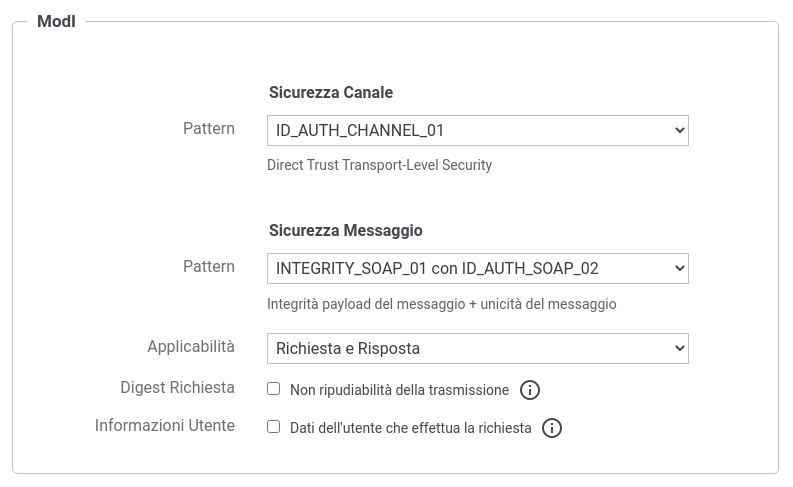
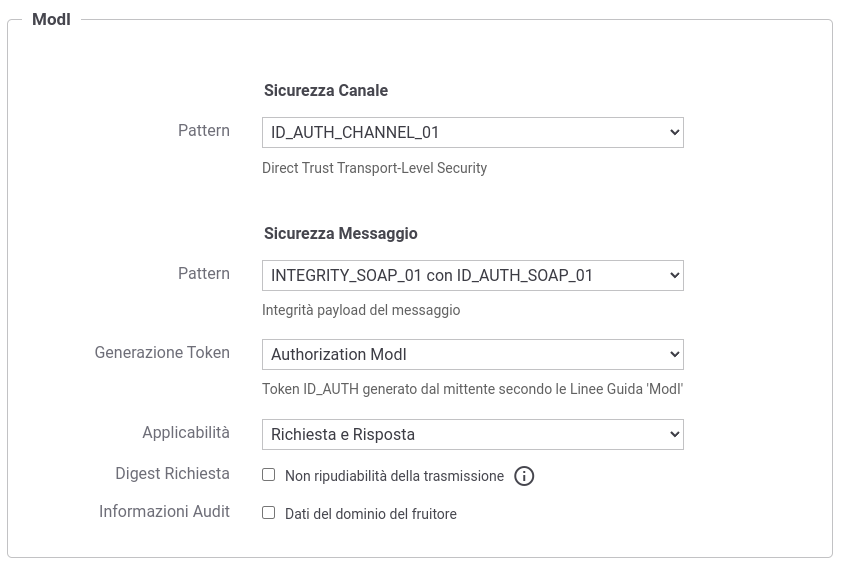
[Documentazione] Avviata documentazione ModI per i pattern 'AUDIT'

diff --git a/resources/doc/src/manuali/console/profiloModIPA/concettiPreliminari.rst b/resources/doc/src/manuali/console/profiloModIPA/concettiPreliminari.rst
@@ -27,19 +27,21 @@ Nel processo di configurazione, tramite la govwayConsole, sono inoltre tenuti in
 
 - *Sicurezza Canale*: gestione della sicurezza inerente il canale di comunicazione tra i domini fruitore ed erogatore. La specifica prevede i seguenti due pattern:
 
-    + *[ID_AUTH_CHANNEL_01] Direct Trust Transport-Level Security*: comunicazione basata sul canale TLS dopo aver effettuato il trust del certificato X509 fornito dal dominio erogatore.
-    + *[ID_AUTH_CHANNEL_02] Direct Trust mutual Transport-Level Security*: comunicazione basata sul canale TLS dopo aver effettuato il trust dei certificati X509, del fruitore e dell'erogatore, nella modalità di mutua autenticazione.
+    + *ID_AUTH_CHANNEL_01 - Direct Trust Transport-Level Security*: comunicazione basata sul canale TLS dopo aver effettuato il trust del certificato X509 fornito dal dominio erogatore.
+    + *ID_AUTH_CHANNEL_02 - Direct Trust mutual Transport-Level Security*: comunicazione basata sul canale TLS dopo aver effettuato il trust dei certificati X509, del fruitore e dell'erogatore, nella modalità di mutua autenticazione.
 
 - *Sicurezza Messaggio*: gestione della sicurezza inerente lo scambio di informazioni tra le applicazioni agli estremi del flusso di comunicazione. I pattern di sicurezza previsti si distinguono per il caso SOAP e per quello REST:
 
-    + *[ID_AUTH_SOAP_01 o ID_AUTH_REST_01] Direct Trust con certificato X.509 su SOAP o REST*: Tramite la validazione del certificato X509, inserito dall'applicazione mittente nel token di sicurezza della richiesta, l'applicativo destinatario verifica la corrispondenza delle identità e la validità del messaggio, prima di procedere con la produzione della risposta. Con l'aggiornamento delle linee guida nella 'Determinazione n. 128 del 23 maggio 2023' il pattern ID_AUTH_REST_01 (utilizzabile anche per API SOAP) indica dove possibile di utilizzare la Piattaforma Digitale Nazionale Dati (PDND) per l’interoperabilità dove la costituzione del trust avviene tramite il materiale crittografico depositato applicando i profili di emissione dei voucher previsti.
-    + *[ID_AUTH_SOAP_02 o ID_AUTH_REST_02]  Direct  Trust  con  certificato  X.509  su  SOAP o REST  con  unicità  del messaggio/token*: estensione del pattern precedente con l'aggiunta di un meccanismo di filtro che impedisce il processamento di un messaggio duplicato.
-    + *[INTEGRITY_SOAP_01 o INTEGRITY_REST_01] Integrità del payload del messaggio SOAP o REST*: pattern che estende i precedenti aggiungendo la gestione della firma del payload come verifica di integrità del messaggio ricevuto.
-    + *[INTEGRITY_REST_02] Integrità del payload delle request REST in PDND*: simile al precedente pattern INTEGRITY_REST_01, assume che il trust avvenga tramite il materiale crittografico depositato sulla Piattaforma Digitale Nazionale Dati (PDND) applicando i profili di emissione dei voucher previsti. All'interno del token viene indicato l'identificativo della chiave pubblica (kid) associata alla chiave privata utilizzata dal client per firmare il token; identificativo kid generato dalla PDND e recuperabile dall'erogatore tramite le API messe a disposizione dalla PDND stessa.
+    + *ID_AUTH_SOAP_01 o ID_AUTH_REST_01 - Direct Trust con certificato X.509 su SOAP o REST*: Tramite la validazione del certificato X509, inserito dall'applicazione mittente nel token di sicurezza della richiesta, l'applicativo destinatario verifica la corrispondenza delle identità e la validità del messaggio, prima di procedere con la produzione della risposta attraverso un trust tra fruitore e erogatore basato su certificati x509.
+    + *ID_AUTH_REST_01 tramite la Piattaforma Digitale Nazionale Dati (PDND)*: con l'aggiornamento delle linee guida nella 'Determinazione n. 128 del 23 maggio 2023', viene indicato di utilizzare la PDND per ottenere un token conforme al pattern ID_AUTH_REST_01; la costituzione del trust avviene attraverso il materiale crittografico depositato sulla PDND applicando i profili di emissione dei voucher previsti.
+    + *ID_AUTH_SOAP_02 o ID_AUTH_REST_02 - Direct Trust con certificato X.509 su SOAP o REST con unicità del messaggio/token*: estensione dei pattern precedenti con l'aggiunta di un meccanismo di filtro che impedisce il processamento di un messaggio duplicato.
+    + *INTEGRITY_SOAP_01 o INTEGRITY_REST_01 - Integrità del payload del messaggio SOAP o REST*: pattern che estende i precedenti aggiungendo la gestione della firma del payload come verifica di integrità del messaggio ricevuto.
+    + *INTEGRITY_REST_02 - Integrità del payload delle request REST in PDND*: simile al precedente pattern INTEGRITY_REST_01, assume che il trust avvenga tramite il materiale crittografico depositato sulla PDND applicando i profili di emissione dei voucher previsti. All'interno del token viene indicato l'identificativo della chiave pubblica (kid) associata alla chiave privata utilizzata dal client per firmare il token di integrità; identificativo kid generato dalla PDND e recuperabile dall'erogatore tramite le API messe a disposizione dalla PDND stessa.
+    + *PROFILE_NON_REPUDIATION_01 - Profilo per la non ripudiabilità della trasmissione*: estende i pattern di integrità allo scopo di fornire una conferma al fruitore da parte dell’erogatore della ricezione del contenuto della richiesta. Descrive inoltre la necessità di definire un arco temporale di persistenza dei messaggi utile per soddisfare l opponibilità ai terzi.
 
 - *Sicurezza Audit*: consente all'erogatore di identificare la specifica provenienza di ogni singola richiesta di accesso ai dati effettuta dal fruitore. Le Linee Guida definiscono 2 pattern utilizzabili sia per API REST che per API SOAP:
 
-    + *[AUDIT_REST_01]  Inoltro dati tracciati nel dominio del Fruitore REST*: definisce la struttura del token di audit utilizzabile in alternativa o tramite un criterio di trust realizzato tramite il materiale crittografico depositato sulla PDND o tramite il trust diretto fruitore-erogatore tramite certificati X509. Le Linee Guida indicano che l'erogatore e il fruitore devono individuare i claim da includere nel JWT di audit e suggeriscono i seguenti dati che dovranno essere presenti nel token generato dal fruitore, per ogni richiesta effettuata:
+    + *AUDIT_REST_01- Inoltro dati tracciati nel dominio del Fruitore*: definisce la struttura del token di audit utilizzabile in alternativa o tramite un criterio di trust realizzato tramite il materiale crittografico depositato sulla PDND o tramite il trust diretto fruitore-erogatore attraverso l'utilizzo di certificati X509. Le Linee Guida indicano che l'erogatore e il fruitore devono individuare i claim da includere nel JWT di audit e suggeriscono i seguenti dati che dovranno essere presenti nel token generato dal fruitore, per ogni richiesta effettuata:
 
 	- userID, un identificativo univoco dell'utente interno al dominio del fruitore che ha determinato l'esigenza della request di accesso all'e-service dell'erogatore;
 
@@ -47,7 +49,7 @@ Nel processo di configurazione, tramite la govwayConsole, sono inoltre tenuti in
 
 	- LoA, livello di sicurezza o di garanzia adottato nel processo di autenticazione informatica nel dominio del fruitore.
 
-    + *[AUDIT_REST_02] Inoltro dati tracciati nel dominio del Fruitore REST con correlazione*: pattern che estende il precedente aggiungendo la correlazione tra il token di autenticazione e il token di audit. Il pattern richiede un trust realizzato tramite il materiale crittografico depositato sulla PDND.
+    + *AUDIT_REST_02 - Inoltro dati tracciati nel dominio del Fruitore con correlazione*: pattern che estende il precedente aggiungendo la correlazione tra il token di autenticazione e il token di audit. Il pattern richiede un trust realizzato tramite il materiale crittografico depositato sulla PDND.
 
 - *URL di Invocazione API*: le linee guida richiedono una indicazione esplicita della tecnologia utilizzata (REST o SOAP) e la versione. Le url con cui vengono esposte le API su GovWay soddisfano entrambi i requisiti.
 

diff --git a/resources/doc/src/manuali/console/profiloModIPA/sicurezzaMessaggio.rst b/resources/doc/src/manuali/console/profiloModIPA/sicurezzaMessaggio.rst
@@ -5,13 +5,19 @@ Sicurezza Messaggio
 
 Il pattern di sicurezza sul messaggio definisce le modalità di comunicazione dei messaggi tra componenti interne  ai domini delle entità coinvolte. Tali pattern sono distinti per il caso SOAP e per quello REST:
 
-- *[ID_AUTH_SOAP_01 o ID_AUTH_REST_01] Direct Trust con certificato X.509 su SOAP o REST*: Tramite la validazione del certificato X509, inserito dall'applicazione mittente nel token di sicurezza, l'applicativo destinatario verifica la corrispondenza delle identità e la validità del messaggio, prima di procedere con il processamento del messaggio. Con l'aggiornamento delle linee guida nella 'Determinazione n. 128 del 23 maggio 2023' il pattern ID_AUTH_REST_01 (utilizzabile anche per API SOAP) indica dove possibile di utilizzare la Piattaforma Digitale Nazionale Dati (PDND) per l’interoperabilità dove la costituzione del trust avviene tramite il materiale crittografico depositato applicando i profili di emissione dei voucher previsti.
+- *ID_AUTH_SOAP_01 o ID_AUTH_REST_01 - Direct Trust con certificato X.509 su SOAP o REST*: tramite la validazione del certificato X509, inserito dall'applicazione mittente nel token di sicurezza, l'applicativo destinatario verifica la corrispondenza delle identità e la validità del messaggio, prima di procedere con il processamento del messaggio attraverso un trust tra fruitore e erogatore basato su certificati x509.
 
-- *[ID_AUTH_SOAP_02 o ID_AUTH_REST_02]  Direct  Trust  con  certificato  X.509  su  SOAP o REST  con  unicità  del messaggio/token*: estensione del pattern precedente con l'aggiunta di un meccanismo di filtro che impedisce il processamento di un messaggio duplicato.
+- *ID_AUTH_REST_01 tramite la Piattaforma Digitale Nazionale Dati (PDND)*: con l'aggiornamento delle linee guida nella 'Determinazione n. 128 del 23 maggio 2023', viene indicato di utilizzare la PDND per ottenere un token conforme al pattern ID_AUTH_REST_01; la costituzione del trust avviene attraverso il materiale crittografico depositato sulla PDND applicando i profili di emissione dei voucher previsti.
 
-- *[INTEGRITY_SOAP_01 o INTEGRITY_REST_01] Integrità del payload del messaggio SOAP o REST*: pattern che estende i precedenti aggiungendo la gestione della firma del payload come verifica di integrità del messaggio ricevuto.
+- *ID_AUTH_SOAP_02 o ID_AUTH_REST_02 - Direct Trust con certificato X.509 su SOAP o REST con unicità del messaggio/token*: estensione dei pattern precedenti con l'aggiunta di un meccanismo di filtro che impedisce il processamento di un messaggio duplicato.
 
-- *[INTEGRITY_REST_02] Integrità del payload delle request REST in PDND*: simile al precedente pattern INTEGRITY_REST_01, assume che il trust avvenga tramite il materiale crittografico depositato sulla Piattaforma Digitale Nazionale Dati (PDND) applicando i profili di emissione dei voucher previsti. All'interno del token viene indicato l'identificativo della chiave pubblica (kid) associata alla chiave privata utilizzata dal client per firmare il token; identificativo kid generato dalla PDND e recuperabile dall'erogatore tramite le API messe a disposizione dalla PDND stessa.
+- *INTEGRITY_SOAP_01 o INTEGRITY_REST_01 - Integrità del payload del messaggio SOAP o REST*: pattern che estende i precedenti aggiungendo la gestione della firma del payload come verifica di integrità del messaggio ricevuto.
+
+- *INTEGRITY_REST_02 - Integrità del payload delle request REST in PDND*: simile al precedente pattern INTEGRITY_REST_01, assume che il trust avvenga tramite il materiale crittografico depositato sulla PDND applicando i profili di emissione dei voucher previsti. All'interno del token viene indicato l'identificativo della chiave pubblica (kid) associata alla chiave privata utilizzata dal client per firmare il token di integrità; identificativo kid generato dalla PDND e recuperabile dall'erogatore tramite le API messe a disposizione dalla PDND stessa.
+
+- *PROFILE_NON_REPUDIATION_01 - Profilo per la non ripudiabilità della trasmissione*: estende i pattern di integrità allo scopo di fornire una conferma al fruitore da parte dell’erogatore della ricezione del contenuto della richiesta. Descrive inoltre la necessità di definire un arco temporale di persistenza dei messaggi utile per soddisfare l opponibilità ai terzi.
+
+- *AUDIT_REST_01 o AUDIT_REST_02 - Inoltro dati tracciati nel dominio del Fruitore*: consente all'erogatore di identificare la specifica provenienza di ogni singola richiesta di accesso ai dati effettuta dal fruitore. 
 
 Le applicazioni di un dominio interno o esterno, descritte negli scenari del Modello di Interoperabilità, vengono rappresentate in GovWay tramite la registrazione di Applicativi come entità di configurazione. In accordo al modello di GovWay, ciascun applicativo è associato al soggetto di riferimento che, nell'ottica ModI, rappresenta il dominio di appartenenza. Un applicativo viene identificato attraverso il criterio di trust del pattern di sicurezza scelto:
 
@@ -80,5 +86,5 @@ Nella figura ':numref:`ErogazioneModIPA`' viene invece raffigurato lo scenario d
         messaggio/idar02/index
         messaggio/idar03/index
 	messaggio/requestDigest
-	messaggio/informazioniUtente
+	messaggio/audit/index
 	messaggio/avanzata/index

diff --git a/resources/doc/src/manuali/console/profiloModIPA/messaggio/audit/auditLegacy.rst b/resources/doc/src/manuali/console/profiloModIPA/messaggio/audit/auditLegacy.rst
@@ -1,27 +1,27 @@
-.. _modipa_infoUtente:
+.. _modipa_infoUtente_legacy:
 
-Informazioni Utente
+AUDIT_LEGACY
 ~~~~~~~~~~~~~~~~~~~
 
-Questa funzionalità consente di estendere "INTEGRITY_REST_01" aggiungendo all'interno del token di sicurezza le informazioni sull'utente che ha effettuato la richiesta.
+Questa funzionalità consente di estendere il pattern ':ref:`modipa_sicurezzaMessaggio_ida03`' aggiungendo all'interno del token di sicurezza le informazioni sull'utente che ha effettuato la richiesta.
 
 .. note::
     La sigla che identifica il pattern di sicurezza messaggio varia a seconda se l'API sia di tipo REST, per cui la sigla corrisponde a *INTEGRITY_REST_01*, o SOAP dove viene utilizzata la sigla *INTEGRITY_SOAP_01*.
 
-L'attivazione di questa funzionalità avviene a livello della relativa API, nella sezione "ModI", elemento "Sicurezza Messaggio", selezionando la voce "Informazioni Utente" (:numref:`api_modipaInfoUtente_fig`).
+L'attivazione di questa funzionalità avviene a livello della relativa API, nella sezione "ModI", elemento "Sicurezza Messaggio", selezionando la voce "Informazioni Audit" (:numref:`api_modipaInfoUtente_fig`).
 
-.. figure:: ../../_figure_console/modipa_api_infoUtente.png
+.. figure:: ../../../_figure_console/modipa_api_infoUtente.png
   :scale: 50%
   :align: center
   :name: api_modipaInfoUtente_fig
 
-  Pattern di sicurezza messaggio "INTEGRITY_REST_01" + Informazioni Utente
+  Pattern di sicurezza messaggio "INTEGRITY" + Informazioni Audit "AUDIT_LEGACY"
 
 .. note::
-    Poichè la funzionalità è una estensione di "INTEGRITY_REST_01", la voce 'Informazioni Utente' compare solamente se è stato selezionato il pattern "INTEGRITY_REST_01 con ID_AUTH_REST_01" o "INTEGRITY_REST_01 con ID_AUTH_REST_02"
+    Poichè la funzionalità è un'estensione del pattern ':ref:`modipa_sicurezzaMessaggio_ida03`', il pattern 'AUDIT_LEGACY' all'interno della sezione 'Informazioni Audit' compare solamente se è stato selezionato uno dei pattern "INTEGRITY\_\*".
 
 .. note::
-    Nel caso venga disabilitata la generazione della sicurezza messaggio sulla richiesta, la funzionalità 'Informazioni Utente' non sarà più attivabile.
+    Nel caso venga disabilitata la generazione della sicurezza messaggio sulla richiesta, la funzionalità 'Informazioni Audit' non sarà più attivabile.
 
 Le informazioni aggiuntive presenti all'interno del token riguardano:
 
@@ -33,21 +33,21 @@ Le informazioni aggiuntive presenti all'interno del token riguardano:
 
 Nella figura :numref:`api_modipaInfoUtente_exampleRest_fig` viene riportato un esempio del payload relativo al token di sicurezza 'ModI' di una API REST, contenente le informazioni aggiuntive sull'utente che ha effettuato la richiesta.
 
-.. figure:: ../../_figure_console/modipa_api_infoUtente_example_rest.png
+.. figure:: ../../../_figure_console/modipa_api_infoUtente_example_rest.png
   :scale: 50%
   :align: center
   :name: api_modipaInfoUtente_exampleRest_fig
 
-  Payload del Token di Sicurezza REST con pattern "INTEGRITY_REST_01" + Informazioni Utente
+  Payload del Token di Sicurezza REST con pattern "INTEGRITY_REST_01" + Informazioni Audit "AUDIT_LEGACY"
 
 Nella figura :numref:`api_modipaInfoUtente_exampleSoap_fig` viene riportato un esempio relativo al token di sicurezza 'ModI' per una API SOAP. Le informazioni aggiuntive sull'utente che ha effettuato la richiesta sono incluse in una Asserziona SAML.
 
-.. figure:: ../../_figure_console/modipa_api_infoUtente_example_soap.png
+.. figure:: ../../../_figure_console/modipa_api_infoUtente_example_soap.png
   :scale: 50%
   :align: center
   :name: api_modipaInfoUtente_exampleSoap_fig
 
-  Payload del Token di Sicurezza SOAP con pattern "INTEGRITY_SOAP_01" + Informazioni Utente
+  Payload del Token di Sicurezza SOAP con pattern "INTEGRITY_SOAP_01" + Informazioni Audit "AUDIT_LEGACY"
 
 In una fruizione, le informazioni aggiuntive che vengono aggiunte nel token, sono per default attese nella richiesta pervenuta a GovWay sotto forma di header http o parametro della url:
 
@@ -59,7 +59,7 @@ In una fruizione, le informazioni aggiuntive che vengono aggiunte nel token, son
 
 Il comportamento di default, per l'acquisizione dei valori utilizzati per le tre informazioni aggiuntive, può essere personalizzato accedendo nella sezione "ModI" di una fruizione, e modificando le voci "Informazioni Utente" (:numref:`api_modipaInfoUtente_dynamic_fig`) indicando un valore statico o utilizzando le proprietà dinamiche descritte nella sezione :ref:`valoriDinamici`.
 
-.. figure:: ../../_figure_console/modipa_api_infoUtente_dynamic.png
+.. figure:: ../../../_figure_console/modipa_api_infoUtente_dynamic.png
   :scale: 50%
   :align: center
   :name: api_modipaInfoUtente_dynamic_fig

diff --git a/resources/doc/src/manuali/console/profiloModIPA/messaggio/requestDigest.rst b/resources/doc/src/manuali/console/profiloModIPA/messaggio/requestDigest.rst
@@ -1,9 +1,11 @@
 .. _modipa_requestDigest:
 
-Digest della Richiesta - Non ripudiabilità della trasmissione
-~~~~~~~~~~~~~~~~~~~~~~~~~~~~~~~~~~~~~~~~~~~~~~~~~~~~~~~~~~~~~~
+PROFILE_NON_REPUDIATION_01
+~~~~~~~~~~~~~~~~~~~~~~~~~~~
 
-Questa funzionalità consente di estendere "INTEGRITY_REST_01" aggiungendo all'interno del token di sicurezza della risposta il digest della richiesta. 
+*Non ripudiabilità della trasmissione*
+
+Questa funzionalità consente di estendere il pattern ':ref:`modipa_sicurezzaMessaggio_ida03`' aggiungendo all'interno del token di sicurezza della risposta il digest della richiesta. 
 
 La funzionalità consente di implementare la soluzione per la non ripudiabilità della trasmissione come suggerito nelle linee guida di interoperabilità (:numref:`api_modipaRequestDigest_fig`) all'interno del documento '03 Profili di interoperabilità.pdf'.
 
@@ -24,10 +26,10 @@ L'attivazione di questo profilo avviene a livello della relativa API, nella sezi
   :align: center
   :name: api_modipaRequestDigest_opzione_fig
 
-  Pattern di sicurezza messaggio "INTEGRITY_REST_01" + Digest Richiesta
+  Pattern di sicurezza messaggio "INTEGRITY" + Digest Richiesta
 
 .. note::
-    Poichè la funzionalità è una estensione di "INTEGRITY_REST_01", la voce 'Digest Richiesta' compare solamente se è stato selezionato il pattern "INTEGRITY_REST_01 con ID_AUTH_REST_01" o "INTEGRITY_REST_01 con ID_AUTH_REST_02"
+    Poichè la funzionalità è un'estensione del pattern ':ref:`modipa_sicurezzaMessaggio_ida03`', la voce 'Digest Richiesta' compare solamente se è stato selezionato uno dei pattern "INTEGRITY\_\*"
 
 .. note::
     Nel caso venga disabilitata la generazione della sicurezza messaggio sulla richiesta o sulla risposta, la funzionalità 'Digest della Richiesta' non sarà più attivabile.
@@ -39,7 +41,7 @@ Nella figura :numref:`api_modipaRequestDigest_exampleRest_fig` viene riportato u
   :align: center
   :name: api_modipaRequestDigest_exampleRest_fig
 
-  Payload del Token di Sicurezza REST con pattern "INTEGRITY_REST_01" + Digest Richiesta
+  Payload del Token di Sicurezza REST con pattern "INTEGRITY_REST" + Digest Richiesta
 
 Nella figura :numref:`api_modipaRequestDigest_exampleSoap_fig` viene riportato un esempio relativo al token di sicurezza ModI della risposta per una API SOAP. Tutti i digest degli elementi firmati nella richiesta vengono riportati all'interno di un header soap 'X-Digest-Richiesta' della risposta. Il nuovo header 'X-Digest-Richiesta' sarà aggiunto agli elementi firmati nella risposta.
 
@@ -48,5 +50,5 @@ Nella figura :numref:`api_modipaRequestDigest_exampleSoap_fig` viene riportato u
   :align: center
   :name: api_modipaRequestDigest_exampleSoap_fig
 
-  Payload del Token di Sicurezza SOAP con pattern "INTEGRITY_SOAP_01" + Digest Richiesta
+  Payload del Token di Sicurezza SOAP con pattern "INTEGRITY_SOAP" + Digest Richiesta
 

diff --git a/resources/doc/src/manuali/console/profiloModIPA/messaggio/audit/index.rst b/resources/doc/src/manuali/console/profiloModIPA/messaggio/audit/index.rst
@@ -1,0 +1,34 @@
+.. _modipa_infoUtente_audit:
+
+AUDIT_REST_01 / AUDIT_REST_02
+~~~~~~~~~~~~~~~~~~~~~~~~~~~~~
+
+Il pattern AUDIT_REST nelle sue varie declinazioni consente all'erogatore di identificare la specifica provenienza di ogni singola richiesta di accesso ai dati effettuta dal fruitore. 
+
+Le Linee Guida indicano che l'erogatore e il fruitore devono individuare i claim da includere nel JWT di audit e suggeriscono i seguenti dati che dovranno essere presenti nel token generato dal fruitore, per ogni richiesta effettuata:
+
+- userID, un identificativo univoco dell'utente interno al dominio del fruitore che ha determinato l'esigenza della request di accesso all'e-service dell'erogatore;
+
+- userLocation, un identificativo univoco della postazione interna al dominio del fruitore da cui è avviata l'esigenza della request di accesso all'e-service dell'erogatore;
+
+- LoA, livello di sicurezza o di garanzia adottato nel processo di autenticazione informatica nel dominio del fruitore.
+
+Le Linee Guida definiscono 2 pattern utilizzabili sia per API REST che per API SOAP, che si aggiungono al precedente pattern legacy di GovWay:
+
+- :ref:`modipa_infoUtente_audi01`: definisce la struttura del token di audit utilizzabile tramite due modalità:
+	
+	- un criterio di trust realizzato tramite il materiale crittografico depositato sulla PDND;
+	- un trust diretto fruitore-erogatore attraverso l'utilizzo di certificati X509. 
+
+- :ref:`modipa_infoUtente_audi02`: pattern che estende il precedente aggiungendo la correlazione tra il token di autenticazione e il token di audit. Il pattern richiede un trust realizzato tramite il materiale crittografico depositato sulla PDND.
+
+- :ref:`modipa_infoUtente_legacy`: soluzione legacy di GovWay già presente nelle precedenti versioni.
+
+
+
+.. toctree::
+        :maxdepth: 2
+
+	audit01
+        audit02
+	auditLegacy

diff --git a/resources/doc/src/manuali/installazione/finalizzazione/ssl/server/frontend.rst b/resources/doc/src/manuali/installazione/finalizzazione/ssl/server/frontend.rst
@@ -98,6 +98,13 @@ Per abilitare il processamento degli header inoltrati dal frontend è necessario
       # Policy OCSP utilizzata per verificare i certificati ricevuti
       org.openspcoop2.pdd.services.pa.gestoreCredenziali.header.ssl.certificate.truststore.ocspPolicy=INDICARE_TIPO_POLICY
 
+   Se il web server di frontend, anche nel caso il chiamante non presenta un certificato client, inoltra comunque l'header indicato nella proprietà 'org.openspcoop2.pdd.services.pa.gestoreCredenziali.header.ssl.certificate' valorizzato con una costante che rappresenta l'assenza del certificato, tramite la proprietà seguente è possibile configurare GovWay su questo aspetto:
+
+   ::
+
+      # Se la proprietà seguente viene valorizzata, il valore indicato specifica una keyword utilizzata dal web server di frontend per indicare che non è presente alcun certificato client
+      org.openspcoop2.pdd.services.pa.gestoreCredenziali.header.ssl.certificate.none=COSTANTE_UTILIZZATA_INDICARE_NESSUN_CERTIFICATO_CLIENT
+
 #. Se il frontend inserisce in un header http il principal dell'identità relativa al chiamante, deve essere indicato il nome di tale header tramite la seguente configurazione:
 
    ::

diff --git a/resources/doc/src/manuali/console/profiloModIPA/canale/idac02.rst b/resources/doc/src/manuali/console/profiloModIPA/canale/idac02.rst
@@ -1,6 +1,6 @@
 .. _modipa_idac02:
 
-[ID_AUTH_CHANNEL_02] Direct Trust mutual Transport-Level Security
+ID_AUTH_CHANNEL_02 - Direct Trust mutual Transport-Level Security
 ~~~~~~~~~~~~~~~~~~~~~~~~~~~~~~~~~~~~~~~~~~~~~~~~~~~~~~~~~~~~~~~~~
 
 Questo pattern di sicurezza prevede l'utilizzo del canale HTTPS con autenticazione client, per le comunicazioni sul confine tra i due domini, con reciproca validazione dei certificati degli enti in gioco.

diff --git a/resources/doc/src/manuali/console/profiloModIPA/messaggio/idar02/index.rst b/resources/doc/src/manuali/console/profiloModIPA/messaggio/idar02/index.rst
@@ -1,6 +1,6 @@
 .. _modipa_sicurezzaMessaggio_ida02:
 
-[ID_AUTH_SOAP_02 / ID_AUTH_REST_02]
+ID_AUTH_SOAP_02 / ID_AUTH_REST_02
 ------------------------------------
 
 Il pattern ID_AUTH nelle sue varie declinazioni della versione '02' ha lo scopo, oltre a identificare e autorizzare l'accesso del fruitore ad un servizio, anche quello di evitare Replay Attack poichè ogni richiesta non può essere nuovamente processata.

diff --git a/resources/doc/src/manuali/console/profiloModIPA/messaggio/idar03/pdnd/index.rst b/resources/doc/src/manuali/console/profiloModIPA/messaggio/idar03/pdnd/index.rst
@@ -1,6 +1,6 @@
 .. _modipa_idar04:
 
-[INTEGRITY_REST_02] Integrità del payload delle request REST in PDND
+INTEGRITY_REST_02 - Integrità del payload delle request REST in PDND
 ~~~~~~~~~~~~~~~~~~~~~~~~~~~~~~~~~~~~~~~~~~~~~~~~~~~~~~~~~~~~~~~~~~~~~~~~
 
 Questo pattern di sicurezza consente di estendere il pattern "ID_AUTH_REST_01" aggiungendo un meccanismo che garantisce l'integrità del payload del messaggio.

diff --git a/resources/doc/src/manuali/console/profiloModIPA/canale/idac01.rst b/resources/doc/src/manuali/console/profiloModIPA/canale/idac01.rst
@@ -1,6 +1,6 @@
 .. _modipa_idac01:
 
-[ID_AUTH_CHANNEL_01] Direct Trust Transport-Level Security
+ID_AUTH_CHANNEL_01 - Direct Trust Transport-Level Security
 ~~~~~~~~~~~~~~~~~~~~~~~~~~~~~~~~~~~~~~~~~~~~~~~~~~~~~~~~~~
 
 Questo pattern di sicurezza prevede l'utilizzo del canale HTTPS, per le comunicazioni sul confine tra i due domini, con validazione del certificato dell'ente destinatario della comunicazione.

diff --git a/resources/doc/src/manuali/console/profiloModIPA/messaggio/idar02/x509/index.rst b/resources/doc/src/manuali/console/profiloModIPA/messaggio/idar02/x509/index.rst
@@ -1,6 +1,6 @@
 .. _modipa_idar02:
 
-[ID_AUTH_SOAP_02 / ID_AUTH_REST_02] Direct Trust con certificato X.509 con unicità del messaggio/token
+ID_AUTH_SOAP_02 / ID_AUTH_REST_02 - Direct Trust con certificato X.509 con unicità del messaggio/token
 ~~~~~~~~~~~~~~~~~~~~~~~~~~~~~~~~~~~~~~~~~~~~~~~~~~~~~~~~~~~~~~~~~~~~~~~~~~~~~~~~~~~~~~~~~~~~~~~~~~~~~~
 
 .. note::

diff --git a/resources/doc/src/manuali/console/profiloModIPA/messaggio/idar03/index.rst b/resources/doc/src/manuali/console/profiloModIPA/messaggio/idar03/index.rst
@@ -1,6 +1,6 @@
 .. _modipa_sicurezzaMessaggio_ida03:
 
-[INTEGRITY_SOAP_01 / INTEGRITY_REST_01 / INTEGRITY_REST_02 ]
+INTEGRITY_SOAP_01 / INTEGRITY_REST_01 / INTEGRITY_REST_02
 ------------------------------------------------------------
 
 Il pattern INTEGRITY nelle sue varie declinazioni ha lo scopo di garantire l'integrità del payload del messaggio.
